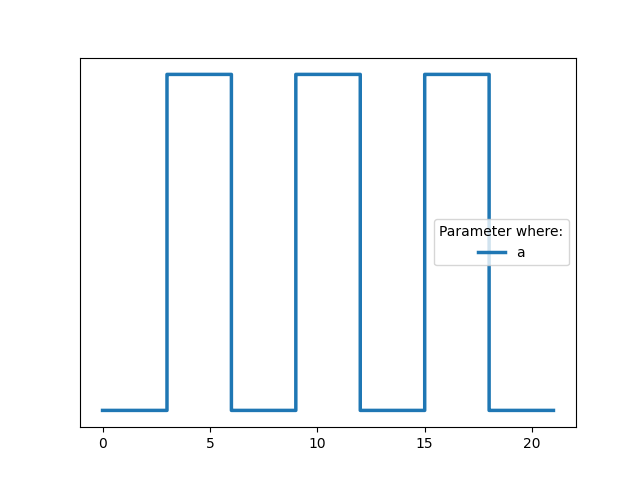
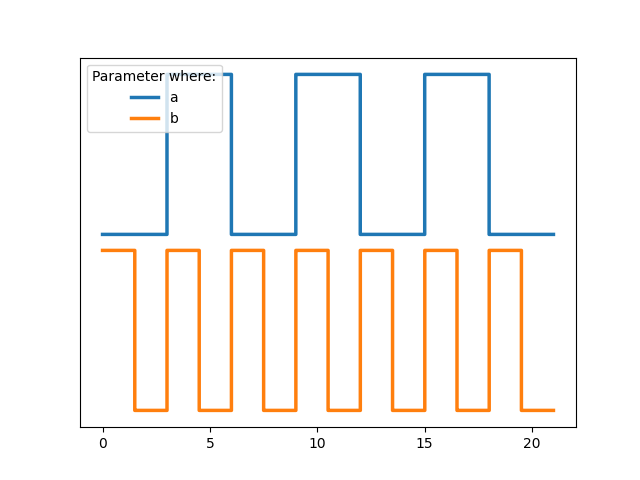
📄(README): update readme

Changed region(s): [[0.3125, 0.4375, 0.875, 0.875], [0.1562, 0.4688, 0.3125, 0.875], [0.125, 0.125, 0.3438, 0.2812]]

diff --git a/README.md b/README.md
@@ -16,27 +16,27 @@ python3 main.py
 
 ```python
 from io import StringIO
-from Machine import Machine
+from Machine import Project, Signal, Updater
 from draw import draw
 
-with StringIO() as f:
-    m = Machine(f, dump_signals=[
-        'a'
-    ], tick_per_mil=1000)
 
+class Prj(Project):
+    a = Signal(0)
+    b = Signal(1)
 
-    def updater1(u: Machine):
-        a = u.get_signal("a")
+    @Updater
+    def updater(self):
+        a = self.s.a
+        b = self.s.b
+
         if not a.keeping(3):
             a.toggle()
+        if not b.keeping(1.5):
+            b.toggle()
 
 
-    m.add_updater(updater1)
-
-    for i in range(int(m.calc_sim_time(21))):
-        m.update(m.get_mil_per_tick())
-
-    f.seek(0)
+with StringIO() as f:
+    Prj.run(1000, 21, f)
     draw(f)
 ```
 
